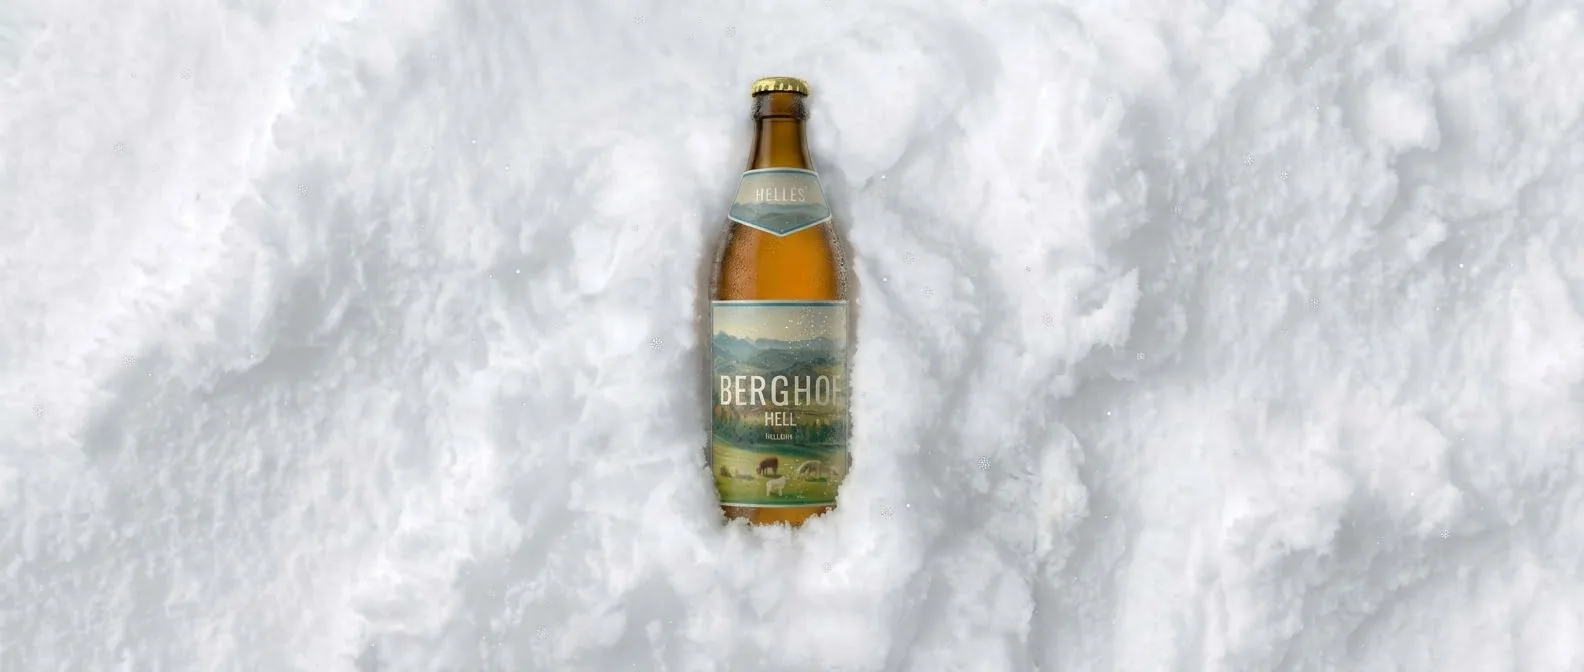
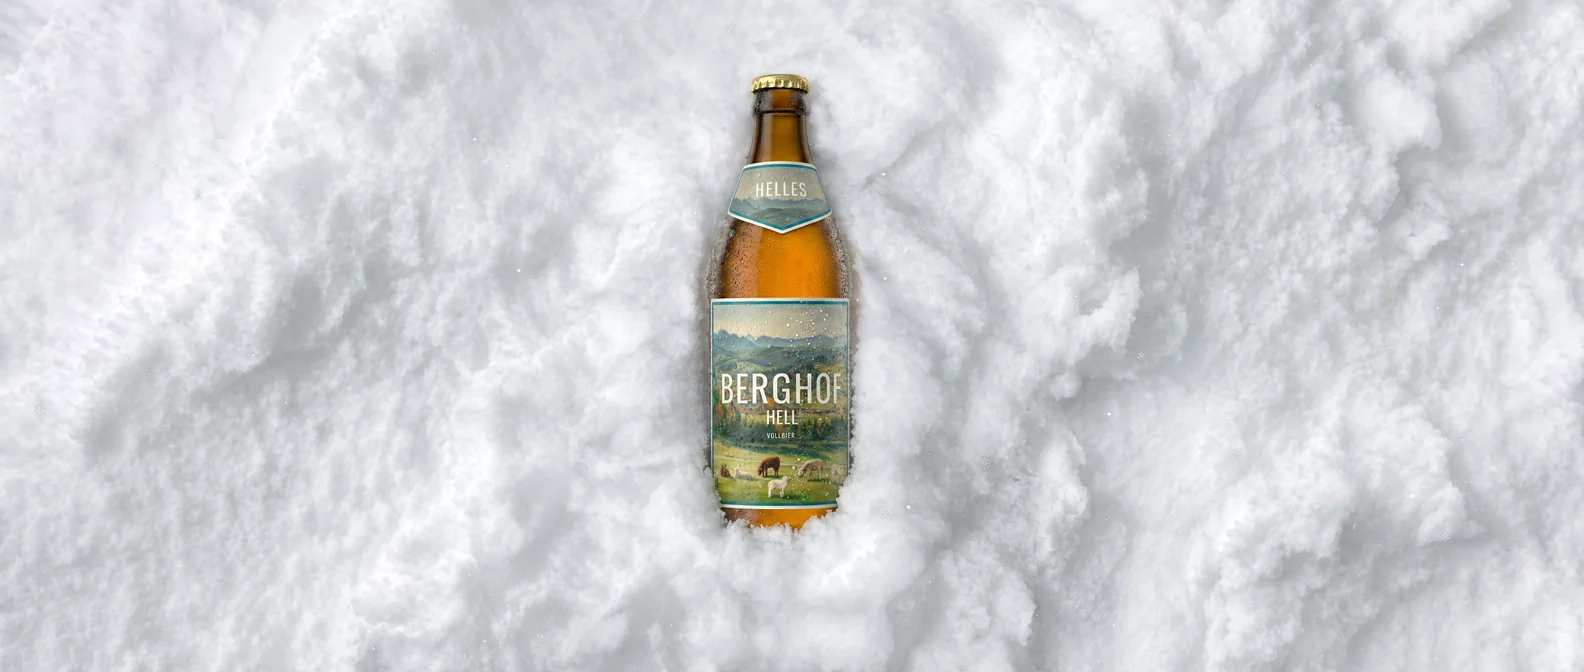
Zutaten: snow picture with the correct bottle label (Berghof Hell / Vollbier / Helles), made with Higgsfield GPT Image 2.6 from the real bottle photo; local only

Changed region(s): [[0.4331, 0.0938, 0.5568, 0.8125]]

diff --git a/index.html b/index.html
@@ -439,7 +439,7 @@
         <!-- Zutaten um die Flasche: Hopfen und Wasser links, Malz rechts, goldene Linien führen zur Flasche (Desktop ab 1100 px, js/etikett.js zeichnet sie beim ersten Erscheinen); schmal: Flasche mittig, darunter die drei Zutaten -->
         <div class="zutaten-buehne" data-etikett>
           <!-- Produktbild: die Flasche im Schnee; der Schnee reicht über die ganze Seitenbreite (css/style.css, .zutaten__schnee) -->
-          <div class="zutaten__schnee"><img src="assets/img/produkt-schnee-1584.webp" srcset="assets/img/produkt-schnee-900.webp 900w, assets/img/produkt-schnee-1584.webp 1584w" sizes="(min-width: 1100px) 1836px, 100vw" width="1584" height="672" loading="lazy" decoding="async" alt="Eine Flasche Berghof Hell steckt halb im Schnee" /></div>
+          <div class="zutaten__schnee"><img src="assets/img/produkt-schnee-1584.webp?v=2" srcset="assets/img/produkt-schnee-900.webp?v=2 900w, assets/img/produkt-schnee-1584.webp?v=2 1584w" sizes="(min-width: 1100px) 1836px, 100vw" width="1584" height="672" loading="lazy" decoding="async" alt="Eine Flasche Berghof Hell steckt halb im Schnee" /></div>
           <svg class="etikett__linie zutaten__linien" viewBox="0 0 100 58" aria-hidden="true" focusable="false">
             <!-- Pfeile (goldene Linien) auf die Füllhöhe des Bieres: Hopfen (unter 0,1 %) ganz oben am Hals, Wasser (ca. 90 %) in der Mitte des Körpers, Malz (ca. 10 %) unten am Boden -->
             <path class="etikett__pfad" pathLength="1" d="M32.5 9H38Q42 9 44.4 9.5T46.8 10.1"/>
